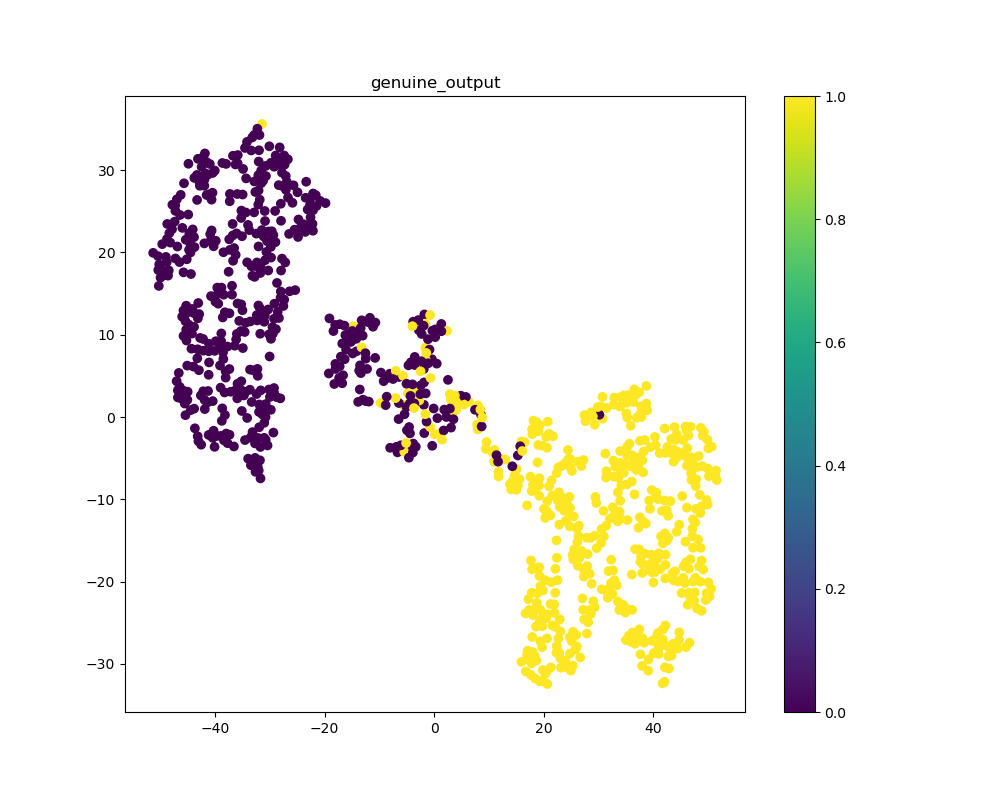
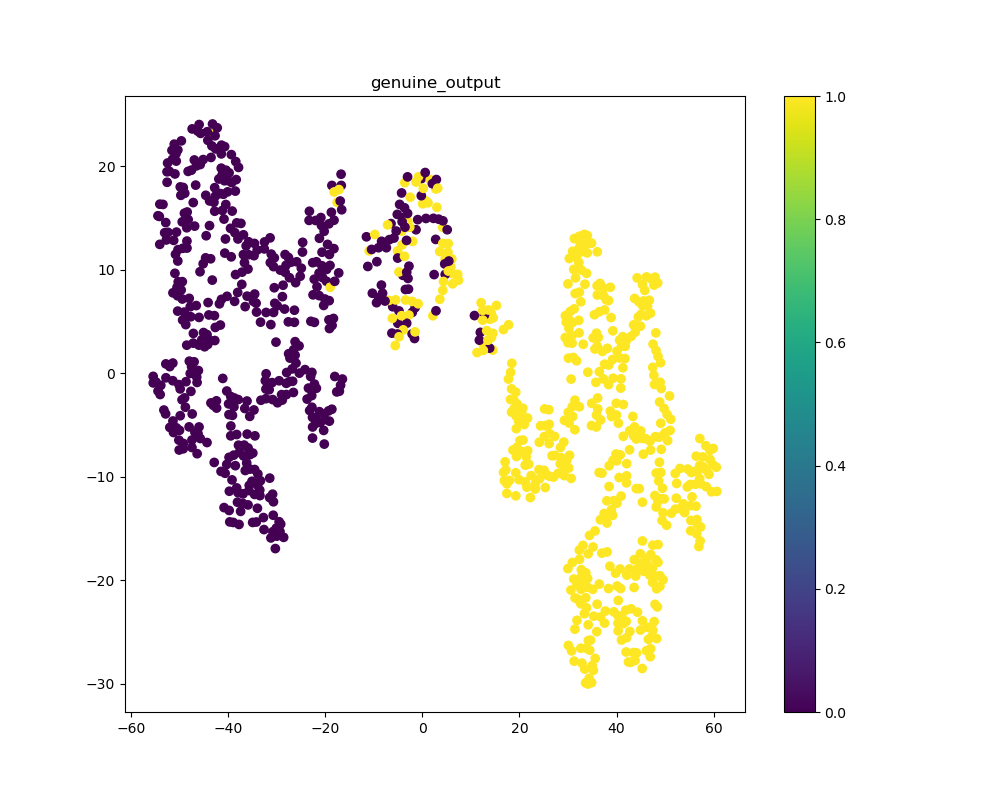
#5 new plot

diff --git a/training/train_LSTM-CNN.py b/training/train_LSTM-CNN.py
@@ -494,7 +494,7 @@ scaled_wind = scaler_wind.transform(true_wind)
 traindataset = DummyDataset(scaled_gauss[0:train_data_len],scaled_wind[0:train_data_len],one_hot_labels[0:train_data_len])
 valdataset = DummyDataset(scaled_gauss[train_data_len:val_data_len],scaled_wind[train_data_len:val_data_len],one_hot_labels[train_data_len:val_data_len])
 
-epochs = 5
+epochs = 10
 class_epochs = 30
 batch_size = 1000
 train_dataloader = DataLoader(traindataset, batch_size = batch_size, shuffle=True)
@@ -532,7 +532,7 @@ for epoch in range(1, epochs+1):
         _, y_targets = train_labels.clone().max(dim=1)
         output_path1 = "plot/data-tSNE.png"
         output_path2 = "plot/vector-tSNE.png"
-        if epoch==5:
+        if epoch==10:
             visualize_embedding(train_gauss_tensor, train_wind_tensor, train_genuine_output, y_targets, output_path1 ,output_path2)
             sys.exit()
         #calculate contrastive loss
